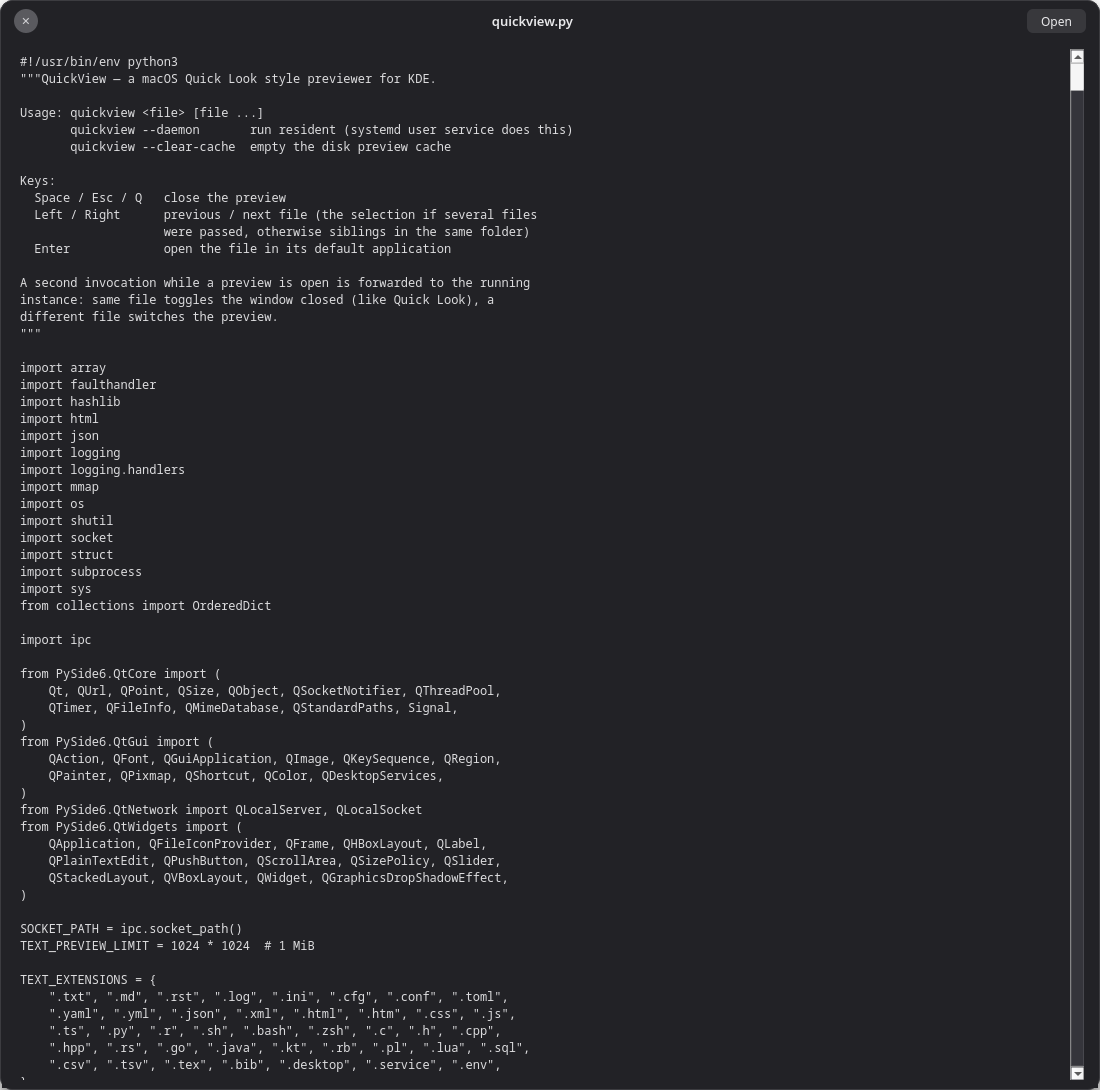
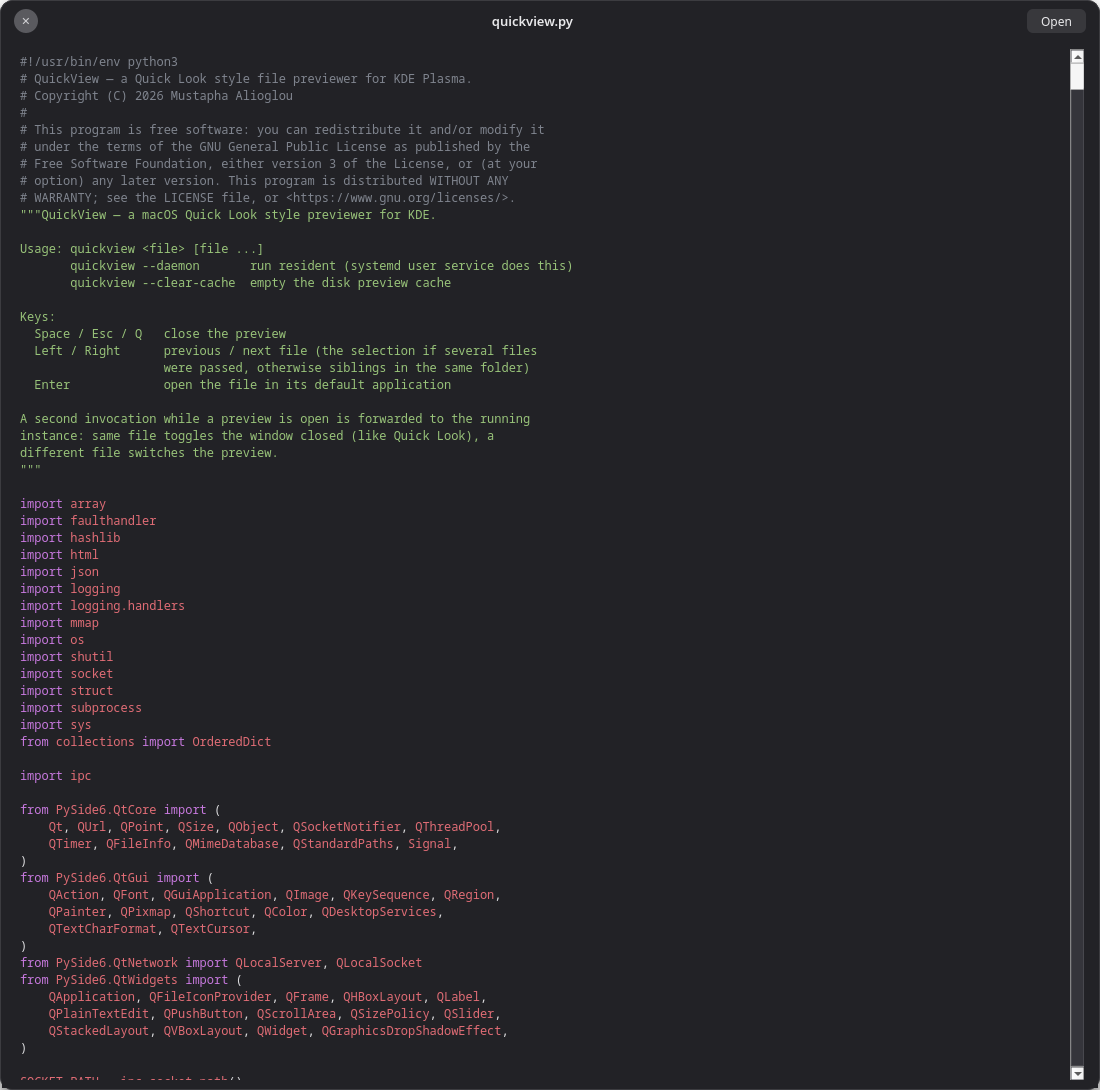
Syntax highlighting for the text preview, lexed inside the jail
Pygments colours source files, but the lexing happens in the worker, not
here. Lexers are regexes; a file written to make one backtrack should cost
a throwaway worker, not the process that owns the window and the IPC
socket. The worker returns the file's text plus [start, length, colour]
spans and the daemon paints ranges — no lexer, and no HTML parser, on this
side of the socket.

Text previews therefore go through a worker now, like every other format.
The old in-process read stays as show_text_direct(), used when the sandbox
is unavailable, and shows the file uncoloured.

Bounds, from measurements on this machine: 83 KiB of Python lexes in
~245 ms and 256 KiB in ~383 ms, but 1 MiB takes ~1.5 s and emits a quarter
of a million tokens, so anything over 256 KiB is shown plain. Only tokens
that differ from the default colour are sent, and adjacent runs sharing a
colour are merged: 19,475 tokens collapse to 8,008 spans for this file.

Pygments is optional — install.sh adds it, and its absence costs colour
and nothing else. QUICKVIEW_CODE_STYLE picks any Pygments style
(default one-dark, whose palette suits the existing panel).

Changed region(s): [[0.0, 0.0312, 0.4945, 0.9982]]

diff --git a/quickview.py b/quickview.py
@@ -49,6 +49,7 @@ from PySide6.QtCore import (
 from PySide6.QtGui import (
     QAction, QFont, QGuiApplication, QImage, QKeySequence, QRegion,
     QPainter, QPixmap, QShortcut, QColor, QDesktopServices,
+    QTextCharFormat, QTextCursor,
 )
 from PySide6.QtNetwork import QLocalServer, QLocalSocket
 from PySide6.QtWidgets import (
@@ -59,6 +60,10 @@ from PySide6.QtWidgets import (
 
 SOCKET_PATH = ipc.socket_path()
 TEXT_PREVIEW_LIMIT = 1024 * 1024  # 1 MiB
+# Any Pygments style name: dracula, gruvbox-dark, nord, monokai, native…
+# one-dark's own background (#282C34) is a shade off the panel's #222226,
+# so its palette sits in this panel without recolouring anything.
+CODE_STYLE = os.environ.get("QUICKVIEW_CODE_STYLE", "one-dark")
 
 TEXT_EXTENSIONS = {
     ".txt", ".md", ".rst", ".log", ".ini", ".cfg", ".conf", ".toml",
@@ -1861,16 +1866,65 @@ class QuickView(QWidget):
             lambda p: self.media.send({"t": "seek", "position": p})
         )
 
+    # ---------------------------------------------------------------- text
+    # Text goes through the jail like everything else, for one reason: the
+    # highlighter. Pygments lexers are regexes, and a file written to make
+    # one backtrack would wedge whichever process runs it — which must not
+    # be the one holding the window and the IPC socket. The worker sends
+    # back the text plus colour spans; the daemon paints ranges and parses
+    # nothing. If the sandbox is unavailable, show_text_direct() below reads
+    # the bytes here instead, unhighlighted.
+
     def show_text(self, path: str):
-        # Read off the event loop: no parser is involved (plain bytes, capped
-        # at 1 MiB), but a file on a stalled NFS or FUSE mount would freeze
-        # the window and the daemon socket with it.
         self.show_message("Loading preview…")
-        # Size the window now, not when the bytes land. show_message() sizes
+        # Size the window now, not when the text lands. show_message() sizes
         # the panel for a short message, and a window that is mapped small
         # and resized a moment later can keep the small size on Wayland —
         # which is what made the first open of a text file look cramped.
         self._size_for_text()
+        state = {"job": None, "shown": False}
+
+        def on_frame(payload: bytes):
+            if self._render_job is not state["job"] or path != self.current_path:
+                return
+            try:
+                doc = json.loads(payload)
+                text = doc["text"]
+                spans = doc.get("spans") or []
+                styles = doc.get("styles") or []
+            except (ValueError, TypeError, KeyError):
+                log.warning("text worker sent a malformed payload: %s", path)
+                return
+            if doc.get("truncated"):
+                text += "\n\n[... truncated ...]"
+            self._clear_widgets()
+            self._show_text_widget(text, spans, styles)
+            state["shown"] = True
+
+        def on_done(ok: bool, error: str):
+            if self._render_job is not state["job"] or path != self.current_path:
+                return
+            self._render_job = None
+            if not state["shown"]:
+                log.debug(
+                    "text worker unavailable (%s) — reading in-process", error[:200]
+                )
+                self.show_text_direct(path)
+
+        state["job"] = self._render_job = SandboxJob(
+            self.pool, path,
+            {
+                "op": "text", "name": os.path.basename(path),
+                "limit": TEXT_PREVIEW_LIMIT, "style": CODE_STYLE,
+            },
+            on_frame, on_done, self,
+        )
+
+    def show_text_direct(self, path: str):
+        """The unhighlighted fallback: read the bytes here, off the event
+        loop. No parser is involved (plain bytes, capped at 1 MiB), but a
+        file on a stalled NFS or FUSE mount would freeze the window and the
+        daemon socket with it."""
 
         def show(data: bytes, error: str):
             if path != self.current_path:
@@ -1899,13 +1953,47 @@ class QuickView(QWidget):
         avail = self.screen_avail()
         self.set_panel_size(int(avail.width() * 0.5), int(avail.height() * 0.75))
 
-    def _show_text_widget(self, text: str):
+    def _show_text_widget(self, text: str, spans=(), styles=()):
         edit = QPlainTextEdit()
         edit.setReadOnly(True)
         edit.setPlainText(text)
         edit.setFrameShape(QFrame.NoFrame)
+        if spans and styles:
+            self._paint_spans(edit, spans, styles)
         self.content.addWidget(edit)
         self._size_for_text()
+
+    @staticmethod
+    def _paint_spans(edit, spans, styles):
+        """Colour [start, length, style] ranges over the document.
+
+        The offsets come from a worker and are applied to a document this
+        process built, so they are checked rather than trusted: a bad index
+        or a range past the end is skipped, not clamped into something that
+        paints the wrong text.
+        """
+        formats = []
+        for colour in styles:
+            fmt = QTextCharFormat()
+            fmt.setForeground(QColor(colour))
+            formats.append(fmt)
+        doc = edit.document()
+        end = doc.characterCount() - 1
+        cursor = QTextCursor(doc)
+        cursor.beginEditBlock()
+        for span in spans:
+            try:
+                start, length, index = span
+            except (TypeError, ValueError):
+                continue
+            if not 0 <= index < len(formats):
+                continue
+            if not 0 <= start < end or length <= 0 or start + length > end:
+                continue
+            cursor.setPosition(start)
+            cursor.setPosition(start + length, QTextCursor.KeepAnchor)
+            cursor.setCharFormat(formats[index])
+        cursor.endEditBlock()
 
     # -------------------------------------------------------------- html
     # Rendered with QtWebEngine, hardened for untrusted files: JavaScript

diff --git a/renderers.py b/renderers.py
@@ -22,6 +22,13 @@ fallback path.
 # waiting on. Every encode below uses it.
 PNG_QUALITY = 80
 
+# Above this, a file is shown as plain text. Pygments is a regex machine and
+# the cost climbs with size: measured here, 83 KiB of Python lexes in 109 ms,
+# but 1 MiB takes 1.5 s and yields a quarter of a million tokens — slower
+# than the preview it is meant to decorate, and a payload bigger than the
+# file itself.
+HIGHLIGHT_MAX_BYTES = 256 * 1024
+
 # A PDF may declare any page geometry it likes, and the height is derived
 # from the requested width: a 1 pt x 10000 pt page asks for a ten-million
 # pixel column, i.e. tens of GB of QImage. The jail has no memory limit of
@@ -171,3 +178,76 @@ def render_anim(source, max_w: int, max_h: int, max_frames: int, max_bytes: int)
         yield count, delay, _encode(img)
         if spent >= max_bytes or not movie.jumpToNextFrame():
             break
+
+
+def highlight_text(source, name: str, limit: int, style_name: str = "one-dark") -> dict:
+    """Read a text file and return it with colour spans for its syntax.
+
+    Returns {"text", "truncated", "spans", "styles", "lexer"}. `spans` is a
+    list of [start, length, style_index] over the *characters* of "text";
+    only tokens that differ from the default colour are listed, and adjacent
+    runs sharing a colour are merged, which is what keeps the result far
+    smaller than the file.
+
+    This runs in the jail on purpose. Pygments lexers are regexes, and a file
+    crafted to make one backtrack would otherwise wedge the daemon that owns
+    the window and the IPC socket; in here the worker's watchdog kills it and
+    the daemon shows the file unhighlighted.
+    """
+    data = source.read(limit + 1) if hasattr(source, "read") else open(source, "rb").read(limit + 1)
+    data = bytes(data)
+    truncated = len(data) > limit
+    text = data[:limit].decode("utf-8", errors="replace")
+    # Normalised here, before anything measures an offset: the daemon's
+    # QTextDocument stores "\n" line ends, so lexing "\r\n" text would put
+    # every span one character further off with each line.
+    text = text.replace("\r\n", "\n").replace("\r", "\n")
+
+    out = {"text": text, "truncated": truncated, "spans": [], "styles": [],
+           "lexer": None}
+    if len(text) > HIGHLIGHT_MAX_BYTES:
+        return out
+    try:
+        from pygments import lex
+        from pygments.lexers import get_lexer_for_filename
+        from pygments.styles import get_style_by_name
+        from pygments.token import Token
+        from pygments.util import ClassNotFound
+    except ImportError:
+        return out  # highlighting is optional; plain text is a fine preview
+
+    try:
+        # By filename only. guess_lexer() runs every lexer's analyse_text()
+        # over the content, which is both slow and a lot more regex surface.
+        # ensurenl=False keeps the text identical to what the daemon shows,
+        # so the offsets below stay valid.
+        lexer = get_lexer_for_filename(name, ensurenl=False, stripnl=False)
+        style = get_style_by_name(style_name)
+    except ClassNotFound:
+        return out  # unknown extension, or a style name that does not exist
+
+    default = style.style_for_token(Token.Text).get("color")
+    palette, styles, spans = {}, [], []
+    # style_for_token() walks the token hierarchy on every call, which costs
+    # more than the lexing does; there are only a handful of distinct token
+    # types in a file, so ask once each.
+    colour_of = {}
+    pos = 0
+    for ttype, value in lex(text, lexer):
+        length = len(value)
+        colour = colour_of.get(ttype)
+        if colour is None:
+            colour = colour_of[ttype] = style.style_for_token(ttype).get("color") or ""
+        if colour and colour != default and value.strip():
+            index = palette.get(colour)
+            if index is None:
+                index = palette[colour] = len(styles)
+                styles.append("#" + colour)
+            if spans and spans[-1][2] == index and spans[-1][0] + spans[-1][1] == pos:
+                spans[-1][1] += length  # one run, not two
+            else:
+                spans.append([pos, length, index])
+        pos += length
+
+    out["spans"], out["styles"], out["lexer"] = spans, styles, lexer.name
+    return out

diff --git a/worker.py b/worker.py
@@ -24,6 +24,9 @@ length + payload:
 
     daemon -> worker   one JSON request {"op": ..., ...}, with the target
                        file's fd attached as ancillary data
+
+The "text" op is the one that answers with JSON rather than pixels: the file's
+text plus the colour spans of its syntax (see renderers.highlight_text).
     worker -> daemon   one JSON header {"ok": true, "count": N} (or
                        {"ok": false, "error": "..."}), then N frames, each
                        raw PNG bytes, each flushed as it is produced, then
@@ -120,6 +123,13 @@ def main() -> int:
                 send(sock, png)
             if first:  # a zero-page document
                 header(0)
+        elif op == "text":
+            doc = renderers.highlight_text(
+                src, job.get("name", ""), job["limit"],
+                job.get("style", "one-dark"),
+            )
+            header(1)
+            send(sock, json.dumps(doc).encode())
         elif op == "anim":
             first = True
             for count, delay, png in renderers.render_anim(

diff --git a/README.md b/README.md
@@ -24,7 +24,7 @@ just like Quick Look on a multi-file selection.
 | PDFs                | Scrollable multi-page view                 |
 | HTML                | Rendered page (JS off, network blocked) — titlebar button flips to source view |
 | Video / audio       | Plays inline with a seek bar               |
-| Text / code / CSV   | Monospace text view (first 1 MiB)          |
+| Text / code / CSV   | Monospace view with syntax highlighting (first 1 MiB) |
 | Folders             | Item count and contents listing            |
 | Everything else     | Icon, type, size and modified date         |
 
@@ -36,6 +36,26 @@ just like Quick Look on a multi-file selection.
 | ← / →           | Previous / next file — pages through the selection if several files were passed, otherwise folder siblings |
 | Enter           | Open the file in its default application  |
 | Ctrl+Q          | Quit the background daemon entirely       |
+
+## Syntax highlighting
+
+Source files are coloured by [Pygments][pyg], which runs **inside the jail**
+with everything else — its lexers are regexes, and a file written to make one
+backtrack should take down a throwaway worker, not the daemon that owns your
+window. What comes back is the text plus a list of colour spans; the daemon
+paints ranges and parses nothing.
+
+Files over 256 KiB are shown unhighlighted (lexing 1 MiB takes ~1.5 s, which
+is slower than the preview it decorates). Any Pygments style works:
+
+```bash
+QUICKVIEW_CODE_STYLE=dracula   # gruvbox-dark, nord, monokai, native, …
+```
+
+Set it in the systemd unit's `Environment=` to make it stick. Without Pygments
+installed the preview is plain text — nothing breaks.
+
+[pyg]: https://pygments.org/
 
 ## Preview cache
 
@@ -51,9 +71,11 @@ Clear it with `quickview --clear-cache`.
 
 ## Sandboxed rendering
 
-**Every file format is parsed outside the daemon**, inside a bubblewrap
-jail: still images, PDFs, animations, audio and video. The daemon holds the
-window, the socket and the cache — it does not hold a decoder.
+**Every format QuickView decodes itself is parsed outside the daemon**,
+inside a bubblewrap jail: still images, PDFs, animations, audio, video, and
+the syntax highlighter. The daemon holds the window, the socket and the
+cache — it does not hold a decoder. HTML is the one exception, and it is
+covered under *What still runs in the daemon* below.
 
 The jail has read-only `/usr`, this app folder and the font config, no
 network (`--unshare-all`), no capabilities (`--cap-drop ALL`), no writes,
@@ -76,6 +98,8 @@ now; a cached preview is ~2 ms.
 - **Animations** (GIF/APNG) — every frame is decoded in the jail and
   streamed here; playback is a timer cycling pixmaps the daemon already
   holds, so no animation parser runs in this process.
+- **Text and code** — read and lexed in the jail; what comes back is the
+  text plus colour spans, so no lexer runs in this process.
 - **Audio and video** — `media_worker.py` runs the whole pipeline in the
   jail and plays the audio itself through PipeWire (the one extra socket
   bound in). Because it owns the audio clock, Qt does A/V sync in there;
@@ -96,13 +120,19 @@ Honest list — these are the reads that never reach a jail:
   Chromium's own renderer process, which has its own sandbox; putting it in
   ours would be strictly worse. `QUICKVIEW_STRICT_SANDBOX=1` drops HTML to
   the plain source view if you would rather not rely on that.
-- **Text** — plain bytes, capped at 1 MiB, no parser involved; read on a
-  pool thread so a stalled network mount can't freeze the window.
+- **Text** — only as a fallback. Text normally goes through the jail like
+  everything else (that is where the highlighter runs); when the sandbox is
+  unavailable the daemon reads the bytes itself, capped at 1 MiB, on a pool
+  thread so a stalled network mount can't freeze the window. No parser is
+  involved on that path — the file is shown uncoloured.
 - **MIME sniffing** and the file-type icon — Qt reads magic bytes to decide
   which of the above applies. Bounded matching, no decoding.
 - **The workers' own PNG output**, which the daemon decodes to display. A
   compromised worker could aim a malformed PNG at the daemon's decoder —
   one hardened format instead of every format Qt supports, but not zero.
+  The same decoder runs on disk cache entries, and those live in
+  `~/.cache/quickview/previews/` where anything running as you can rewrite
+  them, so it is the same exposure by a second route.
 
 ## Logging & crash diagnostics
 
@@ -121,6 +151,8 @@ Honest list — these are the reads that never reach a jail:
   `apt install bubblewrap`, `dnf install bubblewrap`.
 - **Python 3.10+**. `install.sh` creates a virtualenv in `.venv/` and
   installs PySide6 into it; no system packages are touched.
+- **Pygments**, optional — installed into the same virtualenv by
+  `install.sh`. Without it, code previews are plain text.
 - PipeWire or PulseAudio, if you want sound in video/audio previews.
 
 ## Install

diff --git a/CHANGELOG.md b/CHANGELOG.md
@@ -13,8 +13,10 @@ Wayland, and an installer that works on a machine other than the author's.
 
 ### Security
 
-- **Every file format is now parsed outside the daemon.** Images, PDFs,
-  animations, audio and video all run in a bubblewrap jail; the daemon
+- **Every format QuickView decodes itself is now parsed outside the
+  daemon.** Images, PDFs, animations, audio, video and the syntax
+  highlighter all run in a bubblewrap jail (HTML is the exception, and
+  stays in Chromium's own renderer sandbox); the daemon
   keeps the window, the socket and the cache, and holds no decoder. The
   previously documented exceptions — animated GIFs (`QMovie`) and
   audio/video (`QMediaPlayer`) — are gone.
@@ -34,6 +36,19 @@ Wayland, and an installer that works on a machine other than the author's.
 
 ### Added
 
+- **Syntax highlighting in the text preview**, via Pygments — and it runs in
+  the jail, not here. Lexers are regexes; a file written to make one
+  backtrack should cost a throwaway worker, not the process holding the
+  window and the IPC socket. The worker returns the text plus
+  `[start, length, colour]` spans, and the daemon paints ranges: no lexer
+  and no HTML parser on this side. Text previews therefore go through a
+  worker now, with the old in-process read (`show_text_direct`) kept as the
+  fallback for when the sandbox is unavailable.
+
+  Files over 256 KiB stay plain — 83 KiB of Python lexes in ~245 ms, but
+  1 MiB takes ~1.5 s, slower than the preview it decorates. Pick any
+  Pygments style with `QUICKVIEW_CODE_STYLE` (default `one-dark`); with
+  Pygments absent the preview is simply uncoloured.
 - `worker.py` — warm jailed worker for images, PDF pages and animation
   frames, decoding from a passed descriptor.
 - `media_worker.py` — jailed audio/video player. It owns the audio clock
@@ -62,7 +77,8 @@ Wayland, and an installer that works on a machine other than the author's.
   the button, slider and text backgrounds. `WA_TranslucentBackground` stays
   on — it is what makes the rounded corners and drop shadow composite —
   but nothing shows through the panel.
-- Text previews are read on a pool thread, so a file on a stalled NFS or
+- Text previews are read on a pool thread — now the fallback path, since
+  text normally goes through the jail — so a file on a stalled NFS or
   FUSE mount can no longer freeze the window and the daemon socket. The
   window is sized for text up front instead of being resized after the read
   lands.
